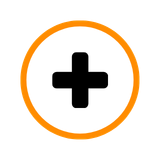
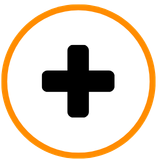
Community map marker uses the supplied community circles per category group
Claude-Session: https://claude.ai/code/session_01LwCw8zXjzKeXJBoiADAknv

Changed region(s): [[0.0, 0.0, 1.0, 1.0], [0.125, 0.125, 0.875, 0.875], [0.25, 0.25, 0.7188, 0.75]]

diff --git a/frontend/lib/features/map/providers/map_provider.dart b/frontend/lib/features/map/providers/map_provider.dart
@@ -51,7 +51,6 @@ import 'package:hazard_app/features/shared/providers/hazard_item_provider.dart';
 import 'package:hazard_app/features/shared/providers/service_providers.dart';
 import 'package:hazard_app/features/shared/services/hazard_service.dart';
 import 'package:hazard_app/features/shared/utils/location_helper.dart';
-import 'package:hazard_app/features/shared/views/widgets/category_glyph.dart';
 import 'package:hazard_app/others/app_colors.dart';
 import 'package:widget_to_marker/widget_to_marker.dart';
 import 'package:hazard_app/features/shared/providers/community_safety_provider.dart';
@@ -2059,57 +2058,33 @@ class MapProvider extends StateNotifier<MapProviderState> {
   /// Cache of community category discs, one per category.
   final Map<String, BitmapDescriptor> _communityDiscBitmapCache = {};
 
-  /// Draws (and caches) the community pin in the Post an ALRT page's own
-  /// style (product owner, 14 Oct 2026, replacing the retired circle): a
-  /// soft tinted rounded square with the category's line icon. The tint,
-  /// ring and icon take the four severity colours (Info grey, Monitor
-  /// yellow, Action orange, Critical red), like every other marker.
+  /// Draws (and caches) the community pin from the supplied community
+  /// artwork (product owner, 14 Oct 2026): one circle per category group,
+  /// each in its own category colour, loaded from the bundled
+  /// `{group}_user.png`. A community report wears its category group, never
+  /// a band colour, so it can never be mistaken for an official alert.
   Future<BitmapDescriptor?> _getCommunityDiscBitmap(final Hazard hazard) async {
     final category = hazard.category;
     if (category == null) return null;
-    // A child category (say "bushfire") has no glyph of its own; the
-    // parent's glyph is the one the chips show.
-    final parent = category.parent;
-    final drawn = CategoryGlyph.iconFor(category.name) == null && parent != null
-        ? parent
-        : category;
-    final band = hazard.severityBand ?? HazardSeverityBand.info;
-    final cacheKey = '${drawn.id}_${band.name}';
-    final cached = _communityDiscBitmapCache[cacheKey];
+    final group = category.parent?.id ?? category.id;
+    final cached = _communityDiscBitmapCache[group];
     if (cached != null) return cached;
 
     try {
-      final tint = band.colorNonAws;
-      const size = 32.0;
-      // Room for the ring so the badge is not clipped at the bitmap edge.
-      const canvas = size + 6.0;
-      final icon = CategoryGlyph.iconFor(drawn.name) ?? LucideIcons.mapPin;
-      final widget = Center(
-        child: Container(
-          width: size,
-          height: size,
-          decoration: BoxDecoration(
-            color: Color.alphaBlend(
-              tint.withValues(alpha: 0.16),
-              AppColors.white,
-            ),
-            borderRadius: BorderRadius.circular(10),
-            border: Border.all(color: tint, width: 2.5),
-            boxShadow: const [
-              BoxShadow(color: Color(0x33000000), blurRadius: 3),
-            ],
-          ),
-          child: Icon(icon, size: 17, color: tint),
-        ),
+      const size = 40.0;
+      final bitmap = await Image.asset(
+        'assets/images/hazards/non_aws/${group}_user.png',
+        width: size,
+        height: size,
+        fit: BoxFit.contain,
+      ).toBitmapDescriptor(
+        logicalSize: const Size(size, size),
+        imageSize: const Size(size * 2.5, size * 2.5),
       );
-      final bitmap = await widget.toBitmapDescriptor(
-        logicalSize: const Size(canvas, canvas),
-        imageSize: const Size(canvas * 2.5, canvas * 2.5),
-      );
-      _communityDiscBitmapCache[cacheKey] = bitmap;
+      _communityDiscBitmapCache[group] = bitmap;
       return bitmap;
     } catch (_) {
-      // A failed disc falls back to the pin set, never a missing marker.
+      // A missing picture falls back to the pin set, never a missing marker.
       return null;
     }
   }

diff --git a/frontend/CLAUDE.md b/frontend/CLAUDE.md
@@ -8,9 +8,9 @@ explicit instruction from the product owner in the current session.
 - Band colours: Info #8A93A0, Monitor #F5C518, Action #F07E1B, Critical #DA1F2D.
 - Shapes carry the SOURCE system, five of them: AWS triangle, official
   diamond, global-humanitarian shape, community badge, ALRT
-  shield. Community (14 Oct 2026): the circle is retired; a community
-  report wears the Post an ALRT page's soft orange tinted rounded-square
-  badge with a line icon, coloured by severity in the four band colours. The shield never writes the band word and never restates or
+  shield. Community (14 Oct 2026): a community report wears the supplied
+  `{group}_user.png` circle in its category group colour, never a band
+  colour. The shield never writes the band word and never restates or
   overrides an official warning. The square is GDACS-style events rated for
   international humanitarian response; it carries the source's own scale
   verbatim (Red/Orange/Green describes likelihood of international aid, not
